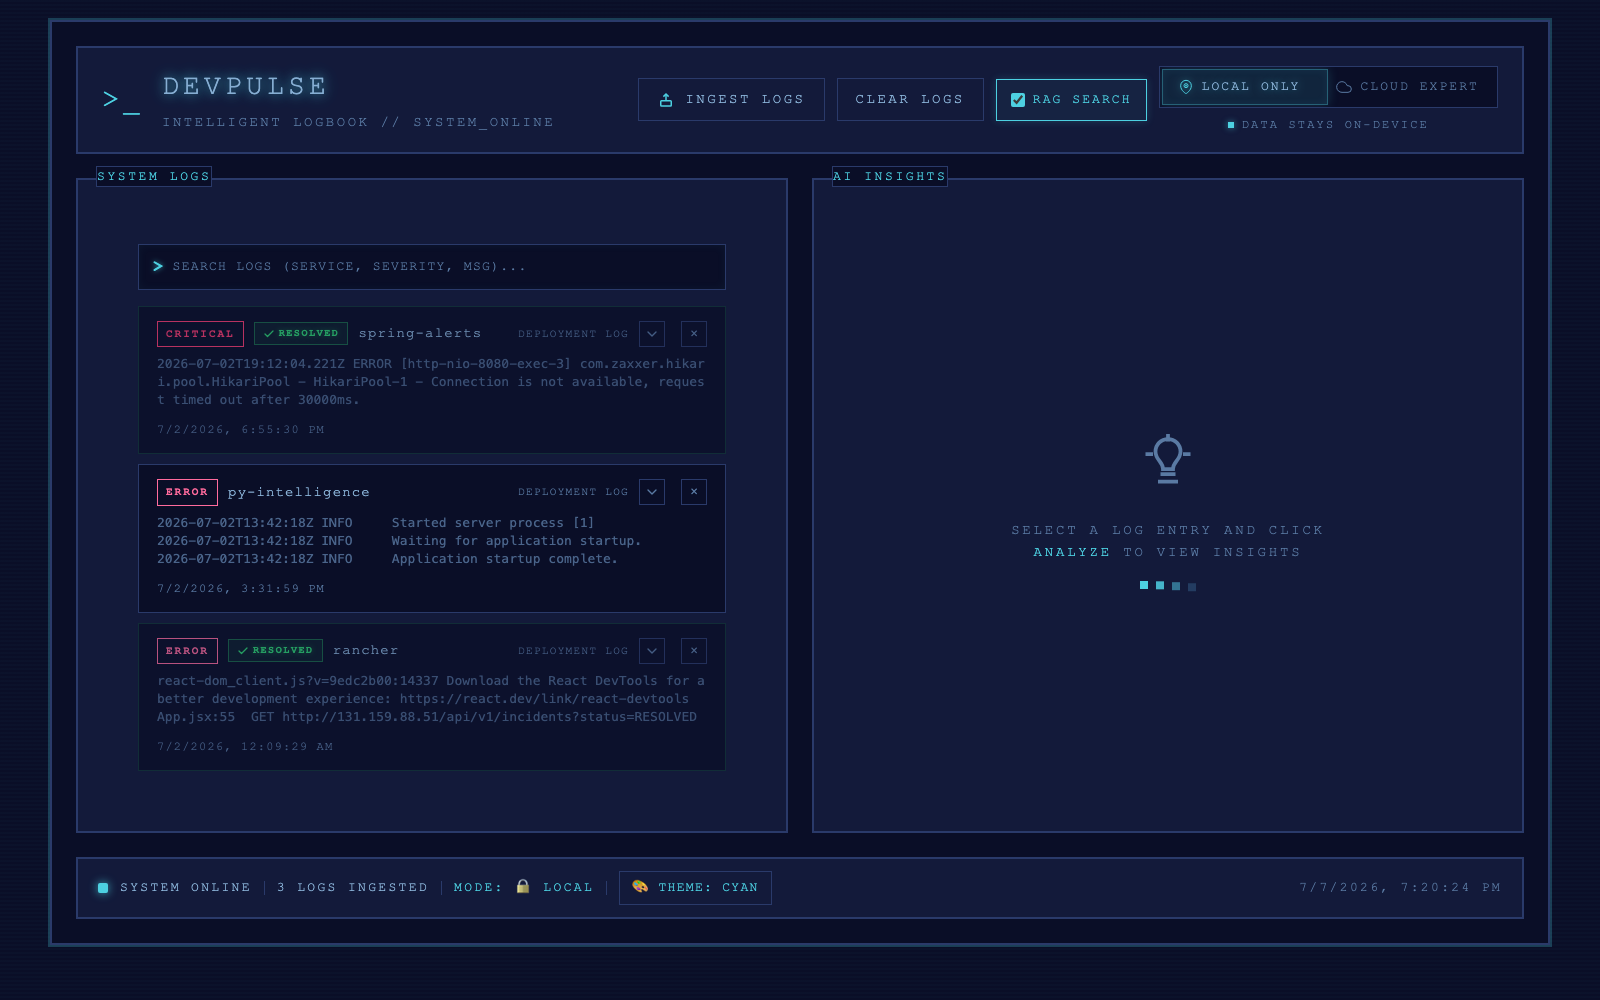
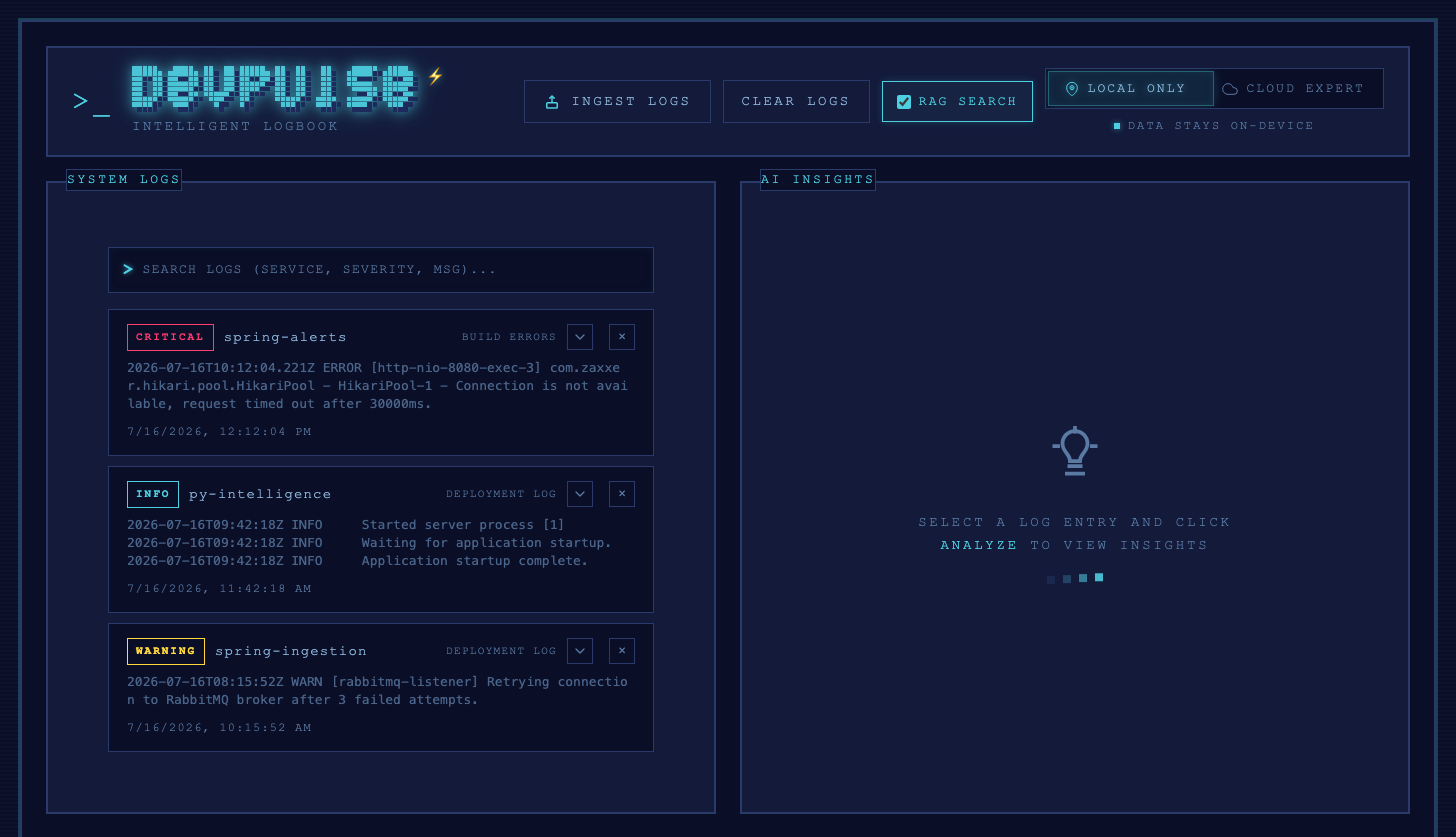
docs: refresh UI showcase screenshots, add deployment-aware badge/warning scenarios
The existing 5 screenshots predated the pixel-art logo and accelerated
badge UI work. Retook all of them against the current UI, using
Playwright for reliable, reproducible captures instead of manual
browser screenshots.

Also added a new screenshot and section contrasting the two local-mode
deployment scenarios (both verified live, not staged):
- Local docker-compose (3b model, unconstrained CPU): shows the
  accelerated badge, no warning.
- Rancher/K8s (1.5b model, 3 of 4 recommended threads): shows the
  resource-constrained warning, no badge.

Reset log data to realistic, non-empty content before capturing so
the dashboard/insights screenshots aren't blank.

diff --git a/docs-site/docs/ui-guide.md b/docs-site/docs/ui-guide.md
@@ -4,13 +4,22 @@ sidebar_position: 14
 
 # UI Guide
 
-A walkthrough of the DevPulse dashboard, taken from the live deployment.
+A walkthrough of the DevPulse dashboard, taken from the live deployments.
 
 ## Dashboard
 
 The main view has two panels: **System Logs** on the left, and **AI Insights** on the right. The top bar lets you ingest new logs, clear all logs, toggle RAG-augmented search, and switch between local and cloud inference. Each log entry shows its severity, service name, and resolution status.
 
 ![Dashboard overview](/img/screenshots/01-dashboard.png)
+
+### Deployment-aware local mode
+
+The local model tier and available CPU threads differ between deployments, and the UI reflects that automatically via the `/health` endpoint:
+
+- **Local docker-compose** (unconstrained CPU/RAM) runs the larger, accelerated **3B** model. The dashboard shows an **⚡ accelerated badge** next to the logo, with a tooltip explaining why.
+- **Rancher/Kubernetes** (CPU-limited namespace quota) runs the smaller **1.5B** model with fewer threads than recommended. No accelerated badge is shown, and a **dismissible warning** appears instead, explaining that local analysis may respond slowly or time out.
+
+![Rancher deployment: no accelerated badge, resource-constrained warning shown](/img/screenshots/00-dashboard-rancher-warning.png)
 
 ## Ingesting a Log
 
